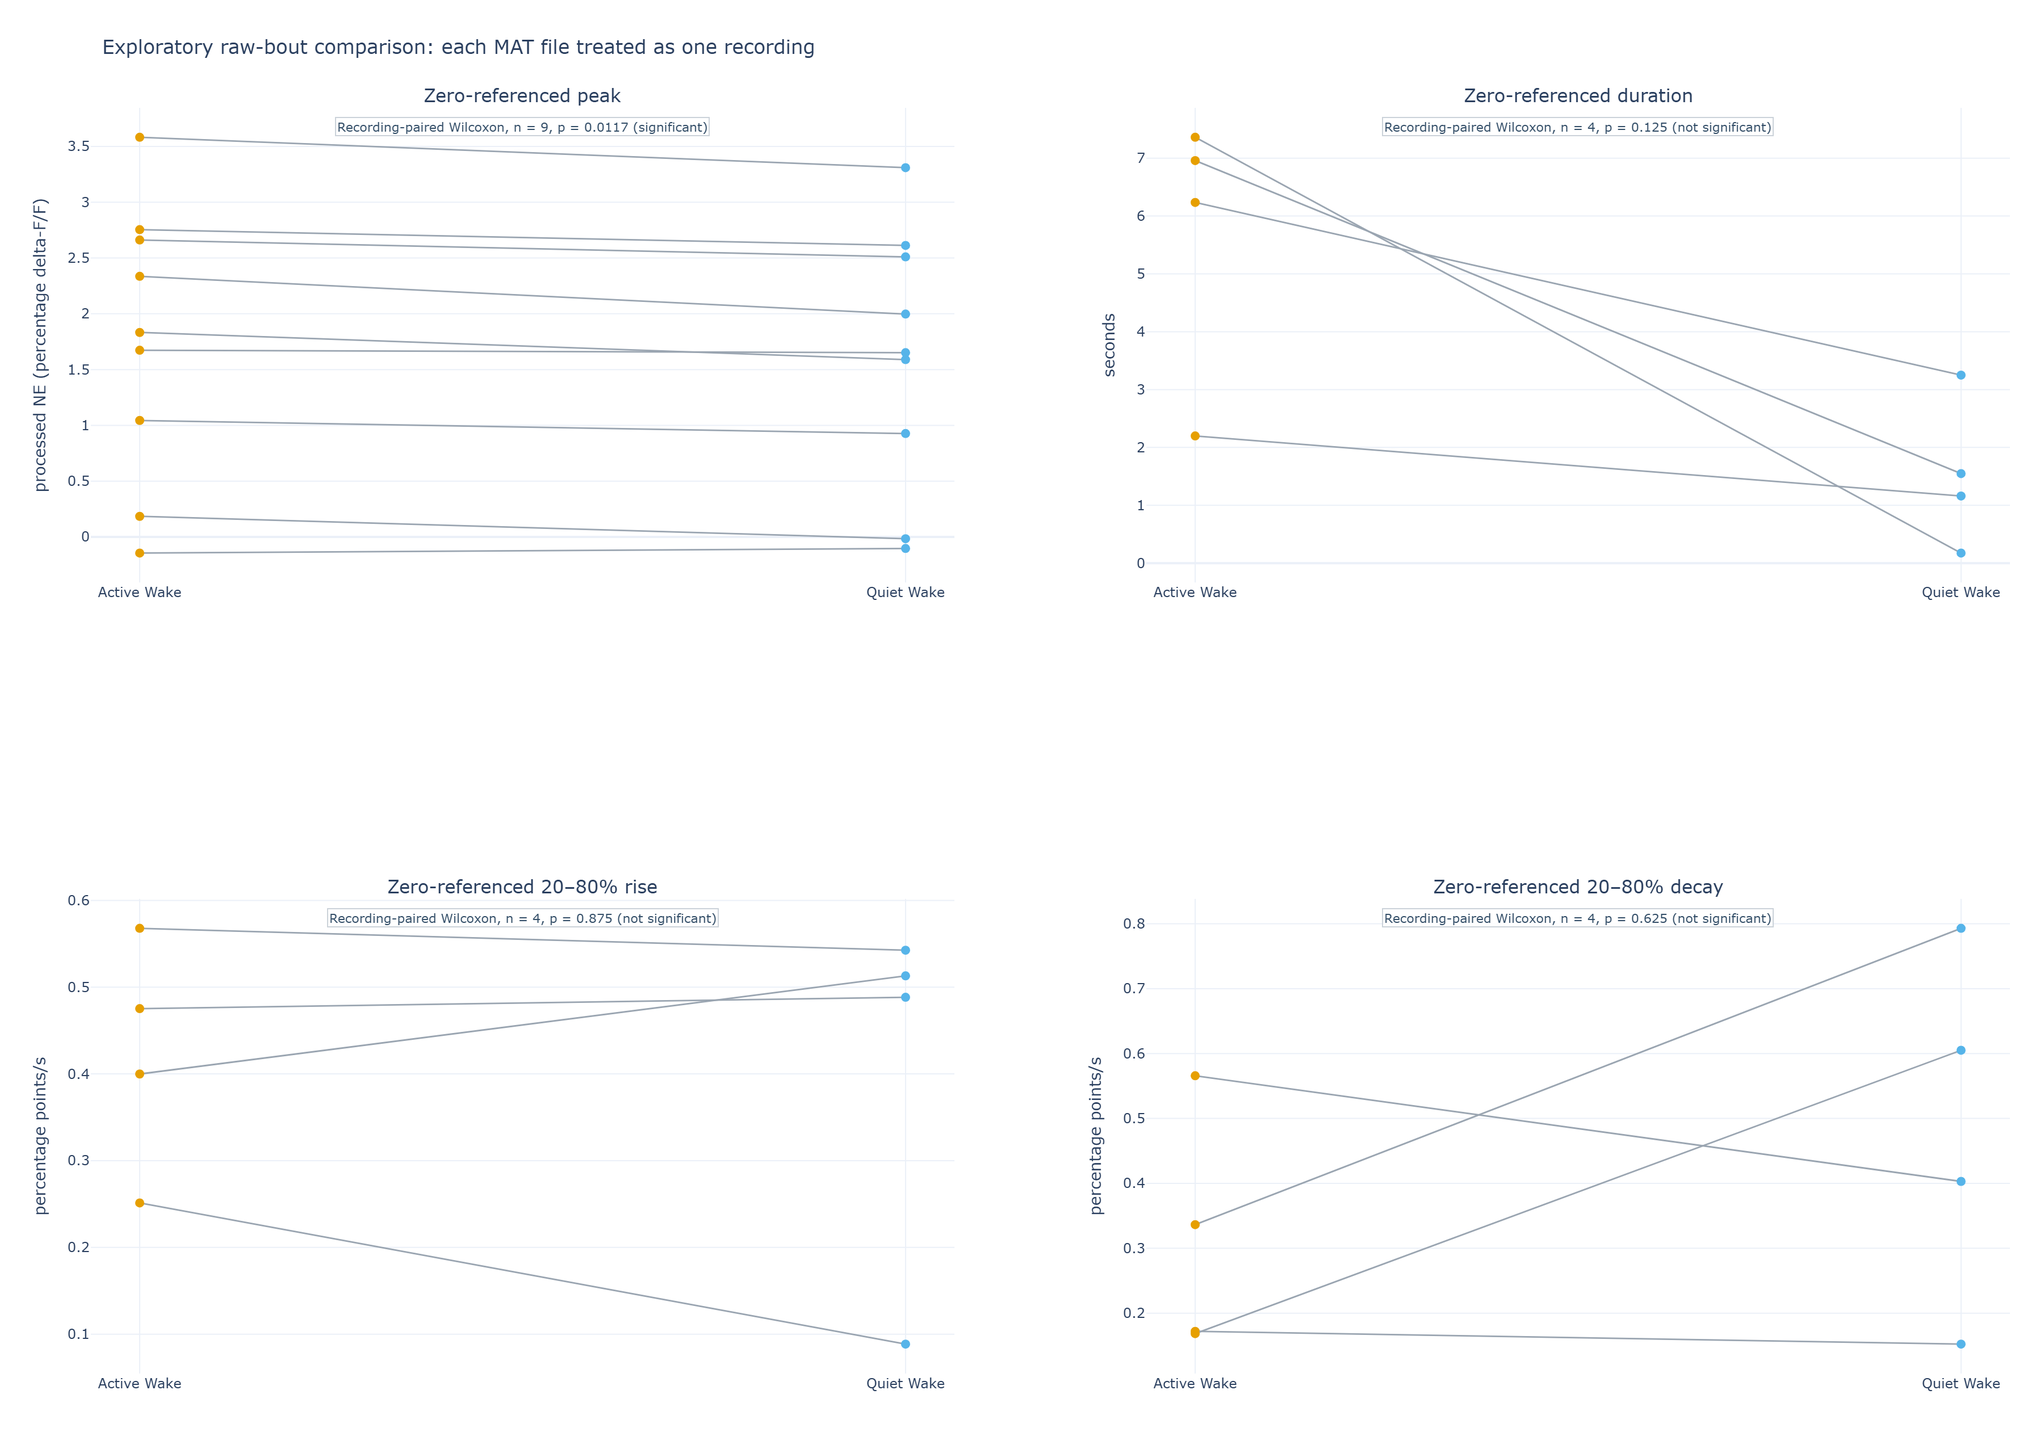
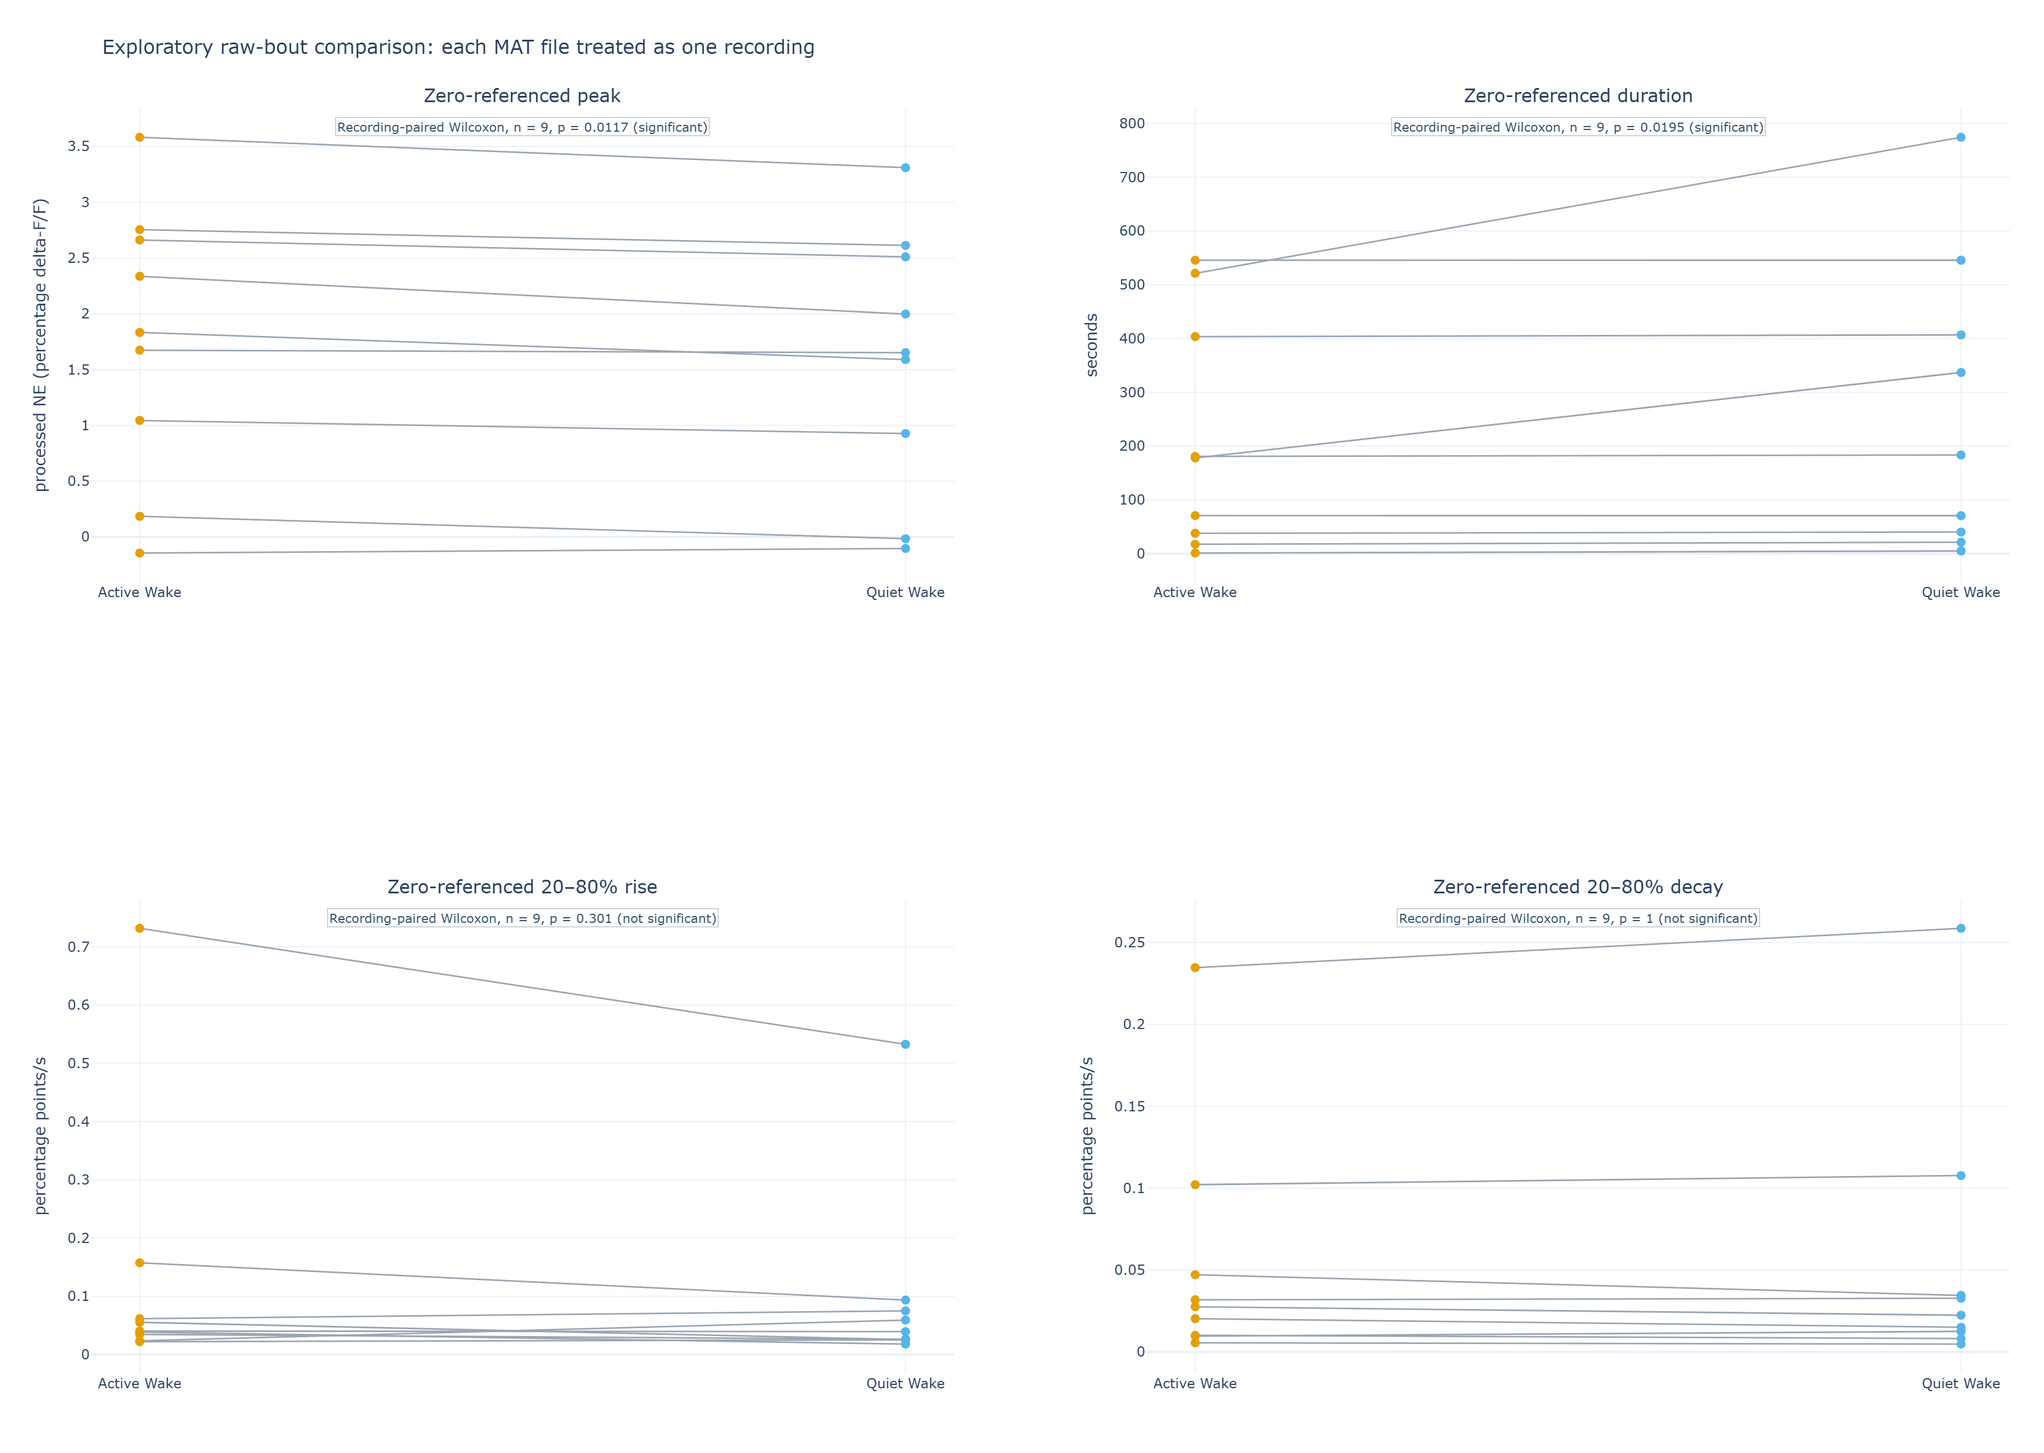
Allow cross-state raw-bout supports
- Attribute raw-bout episode timing by peak state across wake boundaries\n- Clarify contextual duration limits in the recording-level report

diff --git a/wake_ne_analysis/raw_bouts.py b/wake_ne_analysis/raw_bouts.py
@@ -36,41 +36,55 @@ def _sample_labels(recording: Recording, n_samples: int) -> np.ndarray:
 
 
 def analyze_raw_bouts(recording: Recording) -> tuple[pd.DataFrame, dict]:
-    """Measure one zero-referenced maximum per finite Active/Quiet state segment."""
+    """Measure a state-bout peak, then trace its zero-referenced shape across states."""
     n_samples = common_start_samples(recording)
     signal = recording.ne[:n_samples]
     labels = _sample_labels(recording, n_samples)
+    finite_stretches = runs(np.isfinite(signal))
     rows = []
     for state_label, state in STATES.items():
         valid = np.isfinite(signal) & (labels == state_label)
         for start, stop in runs(valid):
             values = signal[start:stop]
             peak = int(np.argmax(values))
+            absolute_peak = start + peak
             raw_peak = float(values[peak])
             complete = False
             l20 = l80 = r80 = r20 = np.nan
-            if raw_peak > 0 and 0 < peak < len(values) - 1:
-                l20 = crossing(values, 0, peak, 0.2 * raw_peak, True)
-                l80 = crossing(values, 0, peak, 0.8 * raw_peak, True)
-                r80 = crossing(values, peak, len(values) - 1, 0.8 * raw_peak, False)
-                r20 = crossing(values, peak, len(values) - 1, 0.2 * raw_peak, False)
+            crossing_state_boundary = False
+            stretch_start, stretch_stop = next(
+                (left, right) for left, right in finite_stretches if left <= absolute_peak < right
+            )
+            stretch = signal[stretch_start:stretch_stop]
+            stretch_peak = absolute_peak - stretch_start
+            if raw_peak > 0 and 0 < stretch_peak < len(stretch) - 1:
+                l20 = crossing(stretch, 0, stretch_peak, 0.2 * raw_peak, True)
+                l80 = crossing(stretch, 0, stretch_peak, 0.8 * raw_peak, True)
+                r80 = crossing(stretch, stretch_peak, len(stretch) - 1, 0.8 * raw_peak, False)
+                r20 = crossing(stretch, stretch_peak, len(stretch) - 1, 0.2 * raw_peak, False)
                 complete = bool(np.all(np.isfinite([l20, l80, r80, r20])) and l20 < l80 < r80 < r20)
-            absolute = lambda sample: recording.start_time + (start + sample) / recording.fs
+                if complete:
+                    support = labels[
+                        stretch_start + int(np.floor(l20)) : stretch_start + int(np.ceil(r20)) + 1
+                    ]
+                    crossing_state_boundary = not bool(np.all(support == state_label))
+            absolute = lambda sample: recording.start_time + sample / recording.fs
             rows.append(
                 {
                     **recording.identity,
                     "state": state,
                     "bout_index": len(rows),
-                    "onset_seconds": absolute(0),
-                    "offset_seconds": absolute(len(values)),
+                    "onset_seconds": absolute(start),
+                    "offset_seconds": absolute(stop),
                     "bout_duration_seconds": len(values) / recording.fs,
-                    "peak_seconds": absolute(peak),
+                    "peak_seconds": absolute(absolute_peak),
                     "raw_peak": raw_peak,
-                    "rise20_seconds": absolute(l20) if np.isfinite(l20) else np.nan,
-                    "rise80_seconds": absolute(l80) if np.isfinite(l80) else np.nan,
-                    "decay80_seconds": absolute(r80) if np.isfinite(r80) else np.nan,
-                    "decay20_seconds": absolute(r20) if np.isfinite(r20) else np.nan,
+                    "rise20_seconds": absolute(stretch_start + l20) if np.isfinite(l20) else np.nan,
+                    "rise80_seconds": absolute(stretch_start + l80) if np.isfinite(l80) else np.nan,
+                    "decay80_seconds": absolute(stretch_start + r80) if np.isfinite(r80) else np.nan,
+                    "decay20_seconds": absolute(stretch_start + r20) if np.isfinite(r20) else np.nan,
                     "complete_shape": complete,
+                    "crosses_state_boundary": crossing_state_boundary,
                     "duration_seconds": (r20 - l20) / recording.fs if complete else np.nan,
                     "rise_slope": 0.6 * raw_peak * recording.fs / (l80 - l20) if complete else np.nan,
                     "decay_slope": 0.6 * raw_peak * recording.fs / (r20 - r80) if complete else np.nan,

diff --git a/tests/test_pipeline.py b/tests/test_pipeline.py
@@ -304,6 +304,15 @@ def test_raw_bout_comparison_uses_declared_common_start_interval():
     assert results.loc[results.metric == "raw_peak", "n_recording_pairs"].item() == 1
 
 
+def test_raw_bout_shape_can_cross_a_wake_state_boundary():
+    source = recording([0, 1, 5, 4, 1, 0], [4, 4, 4, 5, 5, 5], fs=1, name="crossing")
+    bouts, _ = analyze_raw_bouts(source)
+    active = bouts.loc[bouts.state == "active_wake"].iloc[0]
+    assert active.complete_shape
+    assert active.crosses_state_boundary
+    assert active.decay20_seconds > active.offset_seconds
+
+
 def test_manifest_and_both_clis_roundtrip(tmp_path):
     path = tmp_path / "labeled.mat"
     savemat(path, {"ne": triangular_events(), "sleep_scores": [4] * 180, "ne_frequency": 10})

diff --git a/docs/preliminary_report_raw_bout_recordings.md b/docs/preliminary_report_raw_bout_recordings.md
@@ -20,9 +20,10 @@ of recording pairs but is not a valid mouse-level biological inference.
 - The **zero-referenced peak** is significantly higher in Active Wake than Quiet Wake
   in the nine recording pairs (two-sided paired Wilcoxon p = 0.0117). This is an
   exploratory recording-level signal, not a mouse-level result.
-- Zero-referenced duration and 20–80% slopes are available for only four complete
-  recording pairs, and none differs significantly. Their sparse availability is a
-  property of the literal, no-baseline crossing definition—not an excluded file.
+- Once a bout peak is assigned to its state, its 20%/80% crossings may occur outside
+  that bout, as in the primary peak-state analysis. All nine recordings therefore
+  provide timing pairs. Zero-referenced duration differs nominally (p = 0.0195),
+  while rise and decay slopes do not.
 - Unlike the local-baseline report, this analysis retains all labelled common-start
   bouts, including the previously documented recording-start excursions. That makes
   the sensitivity transparent, but it also leaves those artifacts able to influence
@@ -39,13 +40,13 @@ recordings may share a mouse; see [Appendix B](#appendix-b-recording-level-stati
 | Zero-referenced measure | Active Wake | Quiet Wake | Recording pairs | p-value / interpretation |
 |---|---:|---:|---:|---|
 | Peak processed NE (percentage delta-F/F) | 1.833 (1.044–2.661) | 1.651 (0.927–2.510) | n = 9 | 0.0117; significant exploratory recording-level signal |
-| Duration (s) | 6.60 (5.23–7.06) | 1.35 (0.91–1.97) | n = 4 | 0.125; not significant |
-| 20–80% rise slope (percentage points/s) | 0.438 (0.363–0.498) | 0.501 (0.388–0.520) | n = 4 | 0.875; not significant |
-| 20–80% decay slope (percentage points/s) | 0.254 (0.171–0.394) | 0.504 (0.340–0.652) | n = 4 | 0.625; not significant |
+| Duration (s) | 177.92 (37.94–403.57) | 183.52 (40.23–406.87) | n = 9 | 0.0195; significant exploratory recording-level difference |
+| 20–80% rise slope (percentage points/s) | 0.040 (0.035–0.062) | 0.039 (0.026–0.075) | n = 9 | 0.301; not significant |
+| 20–80% decay slope (percentage points/s) | 0.028 (0.010–0.047) | 0.022 (0.013–0.035) | n = 9 | 1.000; not significant |
 
-The significant peak result is compatible with higher stored processed NE levels in
-Active Wake in this file-level screen. It does **not** establish a state effect across
-independent mice, and it does not adjudicate between the zero-referenced and
+The significant peak and duration results are compatible with an Active/Quiet
+difference in this file-level screen. They do **not** establish a state effect across
+independent mice, and they do not adjudicate between the zero-referenced and
 local-baseline definitions.
 
 ## Methodology
@@ -81,39 +82,44 @@ not assumed proven.
 
 ### Literal duration and 20–80% slopes
 
-For a bout whose literal peak is positive, the detector searches *within that same
-bout* backward and forward from the peak for the nearest 20% and 80% crossings of the
-zero-referenced peak value. It then calculates duration from the rising 20% to the
-falling 20% crossing and rise/decay slopes through the middle 20–80% range.
+For a bout whose literal peak is positive, the detector searches backward and forward
+from that peak across the entire continuous finite NE trace for the nearest 20% and
+80% crossings of the zero-referenced peak value. The peak's bout supplies the state
+assignment, but the crossings may occur outside that bout and across sleep-state
+boundaries. It then calculates duration from the rising 20% to the falling 20%
+crossing and rise/decay slopes through the middle 20–80% range.
 
-If a bout's peak is non-positive, is at a bout edge, or lacks any of the required
-within-bout crossings, its duration and slopes are missing for that metric. Its peak
-is still retained. Bouts are never joined across a sleep-state boundary or an invalid
-NE sample. Exact formulas are in [Appendix A](#appendix-a-zero-referenced-bout-metrics).
+If a bout's peak is non-positive or the surrounding finite trace lacks a required
+crossing, its duration and slopes are missing for that metric. Its peak is still
+retained. The NE trace is never bridged across an invalid sample, but the crossing
+support is intentionally allowed across sleep-state boundaries. Exact formulas are in
+[Appendix A](#appendix-a-zero-referenced-bout-metrics).
 
 ### How this differs from the local-baseline report
 
 The primary [local-baseline report](preliminary_report.md) first estimates a rolling
 20th-percentile baseline across continuous NE, detects baseline-subtracted elevations,
 and assigns each event to the state at its peak. This sensitivity instead begins with
-the state bouts, uses their literal stored NE maxima, and confines all crossing searches
-to the same bout. The two approaches answer related but different questions and should
-not be pooled or presented as interchangeable estimates.
+the state bouts and uses their literal stored NE maxima, but follows the same
+peak-state attribution principle: crossing support can extend across state boundaries.
+The two approaches answer related but different questions and should not be pooled or
+presented as interchangeable estimates.
 
 ## Results
 
 ### Recording-paired raw-bout summaries
 
-The zero-referenced peak is higher in Active Wake in the nine-file screen. The plot
-shows every file-level median; each line joins Active and Quiet summaries from the
-same MAT file. The apparent p-value is conditional on treating those nine files as
-independent recordings, which is the explicitly temporary simplification here.
+The zero-referenced peak and duration differ nominally in the nine-file screen. The
+plot shows every file-level median; each line joins Active and Quiet summaries from
+the same MAT file. The apparent p-values are conditional on treating those nine files
+as independent recordings, which is the explicitly temporary simplification here.
 
 ![Recording-paired raw-bout metrics](assets/raw_bout_recording_comparison/raw_bout_metric_comparisons.png)
 
 **Figure 1.** Each point is a file-level median across bouts. Orange is Active Wake;
-light blue is Quiet Wake. Duration and slope panels include only records with complete
-zero-referenced crossings in both states; the peak panel includes all nine files.
+light blue is Quiet Wake. All panels include nine recording pairs. The duration and
+slope support is attributed by the bout containing the peak, but is not constrained to
+remain in that state.
 
 ### Interpretation for the proposal
 
@@ -131,10 +137,12 @@ mouse-level analysis of both definitions.
 
 ## Appendix A: Zero-referenced bout metrics
 
-Let `x(t)` be the stored processed percentage delta-F/F trace inside one finite,
-single-state Wake bout. Let `P = max(x(t))` be that bout's literal peak. There is no
-new baseline subtraction. When `P > 0`, locate within the bout the nearest rise and
-fall crossings at `0.2P` and `0.8P`, named `t_r20`, `t_r80`, `t_d80`, and `t_d20`.
+Let `x(t)` be the stored processed percentage delta-F/F trace and let `P` be the
+literal maximum within one finite, single-state Wake bout. There is no new baseline
+subtraction. When `P > 0`, locate the nearest rise and fall crossings in the
+continuous finite trace at `0.2P` and `0.8P`, named `t_r20`, `t_r80`, `t_d80`, and
+`t_d20`. The bout containing `P` supplies the Active/Quiet assignment; crossing
+support is allowed to cross state boundaries.
 
 ```text
 zero-referenced peak = P
@@ -146,7 +154,10 @@ decay slope          = 0.60 × P / (t_d20 - t_d80)
 The formula is deliberately literal: it measures thresholds relative to zero on the
 processed trace. It is not equivalent to a conventional peak-above-baseline event
 amplitude. The crossing-based metrics are set to missing, rather than fabricated, when
-the required within-bout shape does not exist.
+the required shape does not exist before the finite trace ends. In this run, 1,624 of
+1,766 complete Active-Wake supports and 1,696 of 1,759 Quiet-Wake supports cross at
+least one state boundary, so these timing metrics are contextual peak-state measures,
+not pure within-state kinetics.
 
 ## Appendix B: Recording-level statistics and limitation
 

diff --git a/treaty_docs/work_log.md b/treaty_docs/work_log.md
@@ -10,16 +10,17 @@
   now contributes through a declared common-start/minimum-duration interval; its
   6.25-second unlabelled NE tail is not state-compared, but no source data are changed.
 - Each state bout contributes its literal processed-NE maximum. Positive peaks can
-  additionally provide within-bout zero-referenced 20%/80% duration and slopes; a
-  missing crossing affects only that metric, never file inclusion. The workflow does
+  additionally provide zero-referenced 20%/80% duration and slopes; crossing support
+  is attributed to the state of the bout peak but may extend across state boundaries.
+  A missing crossing affects only that metric, never file inclusion. The workflow does
   not apply the local baseline or the prior recording-start event exclusion.
 - The nine recording-pair screen finds higher zero-referenced Active-Wake peak levels
-  (paired Wilcoxon p = 0.0117), while duration and slopes have four complete pairs and
-  are not significant. The report calls this a screening signal only because repeated
-  recordings may share a mouse and literal levels can drift over time.
+  (paired Wilcoxon p = 0.0117) and a nominal duration difference (p = 0.0195); rise
+  and decay slopes are not significant. The report calls these screening signals only
+  because repeated recordings may share a mouse and literal levels can drift over time.
 - Verification:
   - Regenerated the all-file raw-bout tables and visually inspected the paired figure.
-  - `python -m pytest --basetemp .pytest_tmp_raw_bout -p no:cacheprovider -q`: 27 passed.
+  - `python -m pytest --basetemp .pytest_tmp_peak_attributed_raw -p no:cacheprovider -q`: 28 passed.
   - `git diff --check` and `treaty validate .` passed.
 
 ### Report terminology and reproducible-figure follow-up (Codex GPT-5; effort/tokens not reported)

diff --git a/treaty_docs/next_steps.md b/treaty_docs/next_steps.md
@@ -4,10 +4,11 @@
 
 - `docs/preliminary_report_raw_bout_recordings.md` is a separate, intentionally
   exploratory zero-referenced sensitivity screen. It treats every MAT file as an
-  independent recording and reports a nominal Active-Wake raw-peak signal; do not
-  turn it into a mouse-level biological conclusion or merge it with the local-baseline
-  report. Future submissions should retain verified mouse/session metadata and run a
-  predeclared sensitivity analysis of literal versus local-baseline definitions.
+  independent recording and reports nominal raw-peak and contextual-duration signals;
+  do not turn them into mouse-level biological conclusions or merge them with the
+  local-baseline report. Future submissions should retain verified mouse/session
+  metadata and run a predeclared sensitivity analysis of literal versus local-baseline
+  definitions.
 - The current executive, GitHub-renderable cohort draft is
   `docs/preliminary_report.md`; its refreshed static figures live in
   `docs/assets/cohort_preliminary_report/`. The earlier single-recording document
